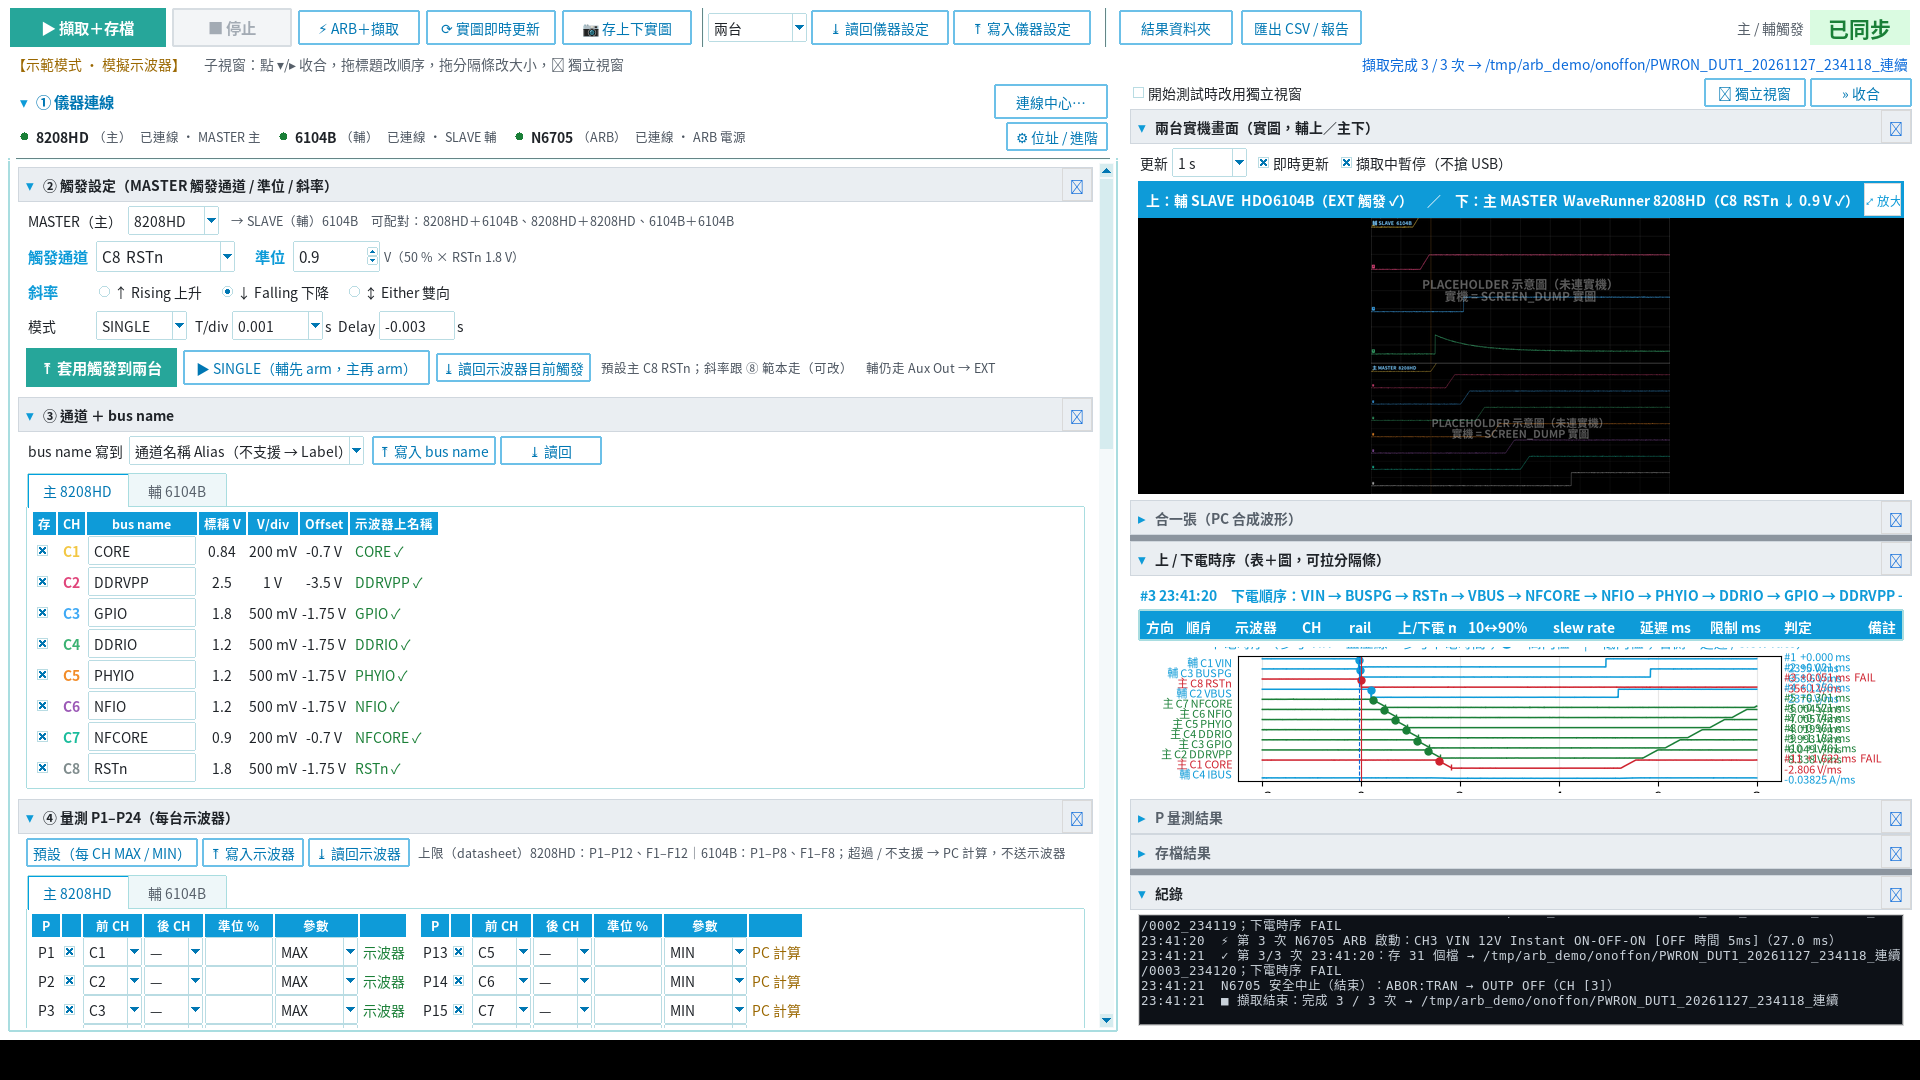
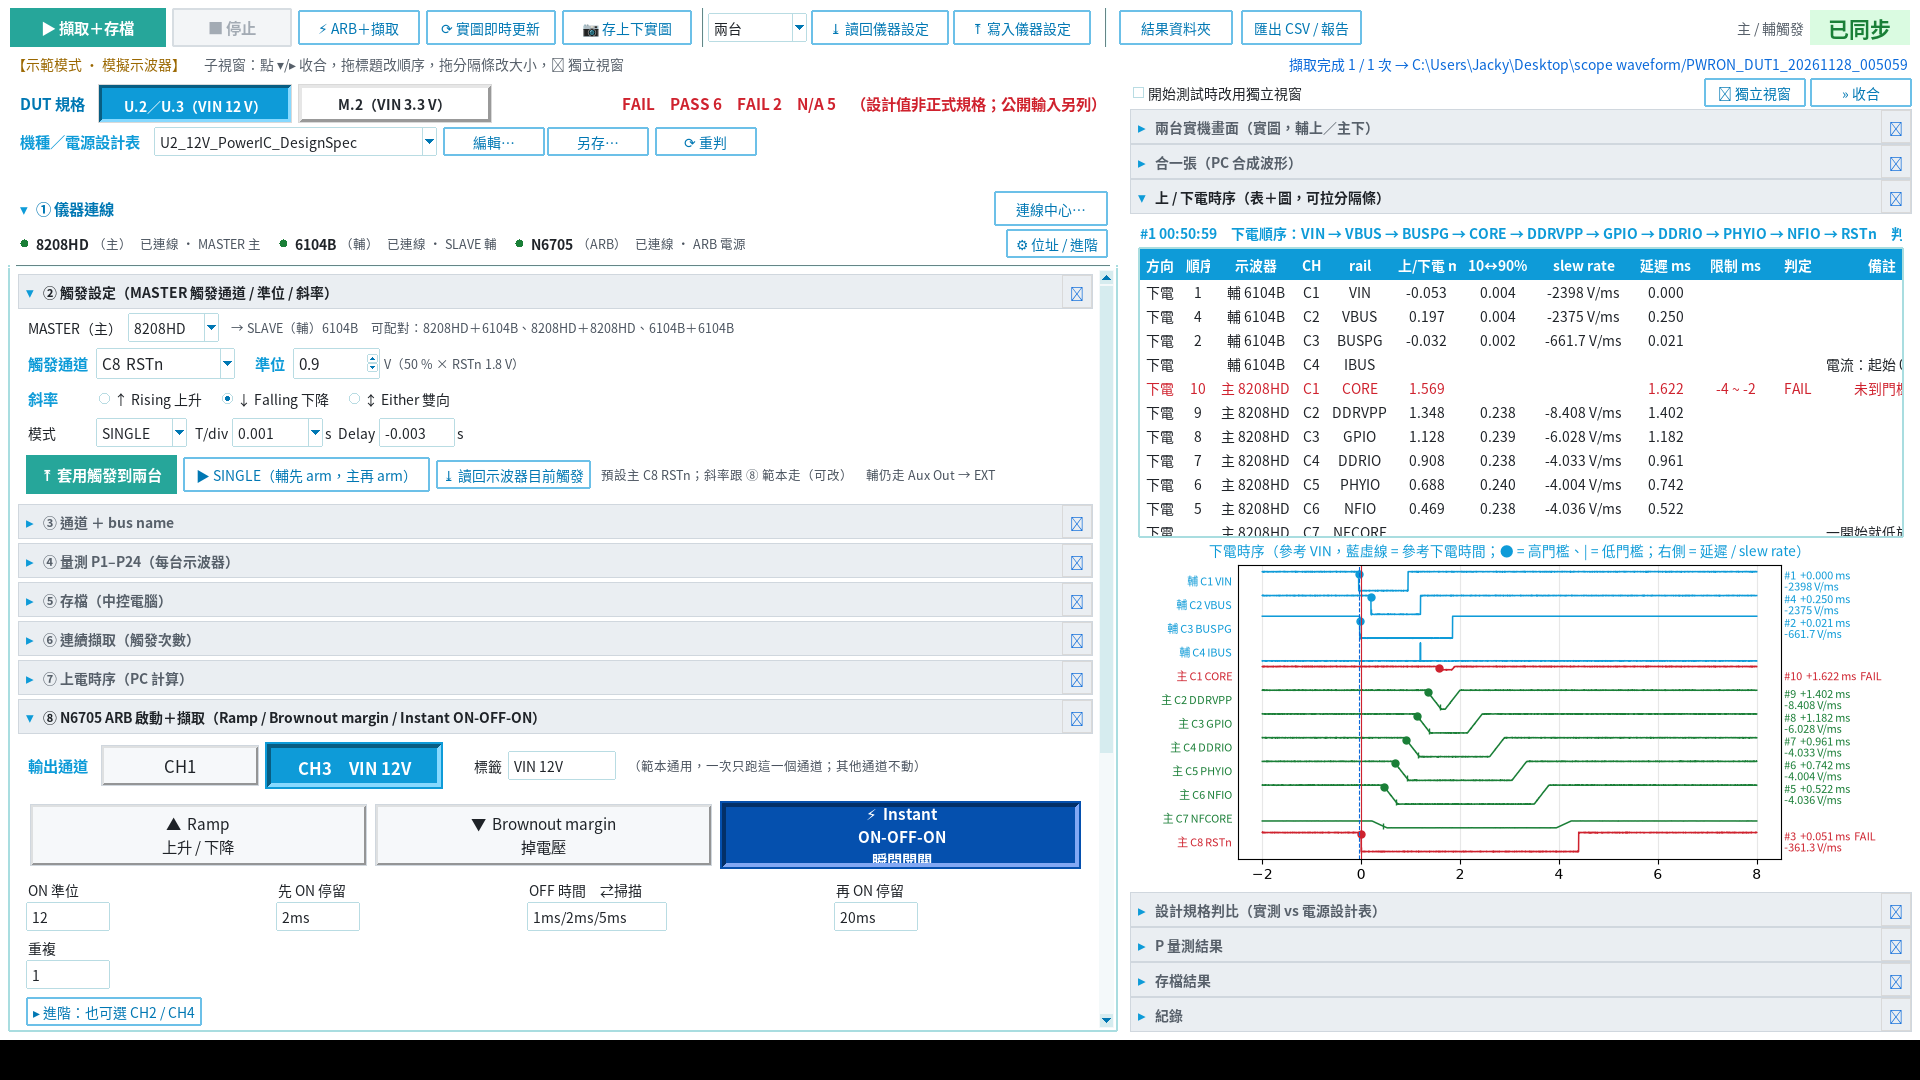
輔機訊號列在前：時序表／圖／CSV、規格表、P 量測與 summary 皆 VIN…IBUS 再主機 CORE…RSTn
「順序」編號與 summary「順序」欄仍依上／下電發生時間（參考 VIN）。
示波器端 P1–P12／P1–P8 編號不變。上下疊圖順序不變（輔上主下）。

diff --git a/tests/test_slave_first.py b/tests/test_slave_first.py
@@ -1,0 +1,82 @@
+# -*- coding: utf-8 -*-
+"""輔機訊號列在前（VIN, VBUS, BUSPG, IBUS → CORE … RSTn）；「順序」仍依發生時間。"""
+from __future__ import annotations
+
+import unittest
+
+import numpy as np
+
+from scope_wave_saver import rails as R
+from scope_wave_saver import sequencing as SQ
+from scope_wave_saver import speccmp as SC
+
+
+WANT = ["VIN", "VBUS", "BUSPG", "IBUS", "CORE", "DDRVPP", "GPIO", "DDRIO", "PHYIO", "NFIO", "NFCORE", "RSTn"]
+
+
+def _wave(t0, t1, v0, v1, n=2000, tmin=-1e-3, tmax=5e-3):
+    t = np.linspace(tmin, tmax, n)
+    y = np.where(t < t0, v0, np.where(t > t1, v1, v0 + (v1 - v0) * (t - t0) / (t1 - t0)))
+    return t, y
+
+
+def _waves_up():
+    """主機 CORE 比輔機 VBUS 更早到（用來證明列序不是時間序）。"""
+    # name: (t_lo, t_hi, nom)
+    times = {
+        ("6104B", 1, "VIN"):     (0.10e-3, 0.20e-3, 12.0),
+        ("6104B", 2, "VBUS"):    (0.80e-3, 0.90e-3, 12.0),
+        ("6104B", 3, "BUSPG"):   (0.30e-3, 0.35e-3, 3.3),
+        ("8208HD", 1, "CORE"):   (0.40e-3, 0.55e-3, 0.84),
+        ("8208HD", 2, "DDRVPP"): (1.00e-3, 1.20e-3, 2.5),
+        ("8208HD", 8, "RSTn"):   (2.00e-3, 2.05e-3, 1.8),
+    }
+    waves = {}
+    for (m, ch, nm), (lo, hi, nom) in times.items():
+        waves[(m, ch)] = _wave(lo, hi, 0.0, nom)
+    # IBUS 電流：峰值在中間，無 t_on
+    t = np.linspace(-1e-3, 5e-3, 2000)
+    y = 0.05 + 0.2 * np.exp(-((t - 0.5e-3) / 0.2e-3) ** 2)
+    waves[("6104B", 4)] = (t, y)
+    return waves
+
+
+class SignalOrderTest(unittest.TestCase):
+    def test_signal_order_constant(self):
+        self.assertEqual(R.all_names(), WANT)
+        self.assertEqual(R.MODELS, (R.SLAVE_DEF, R.MASTER_DEF))
+        self.assertEqual([x["name"] for x in SQ.default_rails()], WANT)
+
+    def test_analyze_lists_slave_first_but_numbers_by_time(self):
+        rows = SQ.analyze(_waves_up(), SQ.default_rails(), ref="VIN", basis="hi")
+        self.assertEqual([x["name"] for x in rows], WANT)
+        # t_hi order: VIN, BUSPG, CORE, VBUS, DDRVPP, RSTn（IBUS 無 t_on）
+        by_name = {x["name"]: x for x in rows}
+        self.assertEqual(by_name["VIN"]["order"], 1)
+        self.assertEqual(by_name["BUSPG"]["order"], 2)
+        self.assertEqual(by_name["CORE"]["order"], 3)
+        self.assertEqual(by_name["VBUS"]["order"], 4)
+        self.assertIsNone(by_name["IBUS"]["order"])
+        self.assertAlmostEqual(by_name["VIN"]["delay"], 0.0)
+        self.assertEqual(SQ.sequence_text(rows), "VIN → BUSPG → CORE → VBUS → DDRVPP → RSTn")
+        table = SQ.table(rows)
+        self.assertEqual([r[4] for r in table], WANT)  # rail column
+
+    def test_spec_compare_ibus_with_slave(self):
+        SC.set_form("U2")
+        SC.set_profile("U2_12V_PowerIC_DesignSpec")
+        meas = {n: R.VNOM[n] for n in WANT if n != "IBUS"}
+        meas["IBUS"] = 0.1
+        # CORE 設計範圍約 0.853–0.884，標稱 0.84 會 FAIL；給一個在範圍內的值
+        meas["CORE"] = 0.86
+        result = SC.compare_measurements(meas)
+        chs = [r["ch"] for r in result["rows"] if r.get("kind") == "design"]
+        # 公開輸入 VIN 列在設計列之後，不算 design；IBUS 應在 BUSPG 之後、CORE 之前
+        self.assertEqual(chs[:4], ["VIN", "VBUS", "BUSPG", "IBUS"])
+        self.assertEqual(chs[4], "CORE")
+        self.assertLess(chs.index("IBUS"), chs.index("CORE"))
+        self.assertEqual(chs[-1], "RSTn")
+
+
+if __name__ == "__main__":
+    unittest.main()

diff --git a/scope_wave_saver/sequencing.py b/scope_wave_saver/sequencing.py
@@ -13,7 +13,8 @@
   · 邏輯訊號（RSTn、BUSPG）：上 / 下電時間用單一高準位門檻 V（預設 0.7 × 標稱）；slew 一樣用 10 / 90 %
   · 電流（IBUS）：上電 → 峰值、峰值時間、slew = 10 → 90 % 峰值（A/ms）；下電 → 起始電流 90 → 10 %（A/ms）。不排序
   · 「上 / 下電時間」= 高門檻穿越（basis="hi"，預設；上電 = power good，下電 = 掉出 power good）或低門檻（basis="lo"）
-  · 順序 = 依上 / 下電時間排序；延遲 = 該時間 − 參考 rail（預設 VIN）的時間
+  · 「順序」編號 = 依上 / 下電時間（最早 = 1）；延遲 = 該時間 − 參考 rail（預設 VIN）的時間
+  · 表格列、時序圖（上到下）、時序 CSV：輔機訊號在前（VIN, VBUS, BUSPG, IBUS），再主機（CORE … RSTn）；同一台依 CH
   · 可選：每條 rail 的延遲下限 / 上限（ms），上電一組（min_ms / max_ms）、下電一組（dn_min_ms / dn_max_ms）→ PASS / FAIL
 """
 from __future__ import annotations
@@ -23,7 +24,7 @@ import math
 
 import numpy as np
 
-from .rails import LOGIC, MASTER_DEF, NAMES, SLAVE_DEF, UNIT_A, VNOM, kind
+from .rails import LOGIC, MASTER_DEF, NAMES, SLAVE_DEF, UNIT_A, VNOM, kind, sort_rails
 
 ROLE = {MASTER_DEF: "主", SLAVE_DEF: "輔"}
 
@@ -104,7 +105,11 @@ def _slew(v_lo, v_hi, t_lo, t_hi):
 
 
 def analyze(waves, rails=None, ref="VIN", basis="hi", slave_skew_s=0.0, direction="auto"):
-    """waves: {(model, ch): (t, y)} → rows（照上 / 下電時間排序；沒穿越的排最後）。每列帶 direction"""
+    """waves: {(model, ch): (t, y)} → rows。
+
+    「順序」編號依上 / 下電時間；回傳列序是輔機訊號在前再主機（同一台依 CH），沒穿越的仍留在原列位。
+    每列帶 direction。
+    """
     rails = rails or default_rails()
     d = detect_direction(waves, rails) if direction in (None, "", "auto") else direction
     up = d == "up"
@@ -175,8 +180,7 @@ def analyze(waves, rails=None, ref="VIN", basis="hi", slave_skew_s=0.0, directio
     for x in rows:
         if x["t_on"] is None and x["kind"] != "current" and (x.get("min_ms") is not None or x.get("max_ms") is not None):
             x["verdict"] = "FAIL"
-    rest = [x for x in rows if x["t_on"] is None]
-    return timed + rest
+    return sort_rails(rows)
 
 
 DIR_TXT = {"up": "上電", "down": "下電"}
@@ -189,6 +193,12 @@ def direction_of(rows):
 def overall(rows):
     v = [x["verdict"] for x in rows if x.get("verdict")]
     return "" if not v else ("FAIL" if "FAIL" in v else "PASS")
+
+
+def sequence_text(rows):
+    """上 / 下電發生順序（依「順序」編號，不是列表列序）。"""
+    timed = sorted((x for x in rows if x.get("order")), key=lambda x: x["order"])
+    return " → ".join(x["name"] for x in timed)
 
 
 def _ms(v, nd=3):

diff --git a/scope_wave_saver/gui.py b/scope_wave_saver/gui.py
@@ -581,7 +581,7 @@ class WaveSaverUI(tk.Tk):
         ttk.Button(top, text="⤓ 讀回", style="U.Small.TButton").pack(side="left")
         nb = ttk.Notebook(f)
         nb.pack(fill="x", pady=(4, 0))
-        for m, role in ((MASTER_DEF, "主"), (SLAVE_DEF, "輔")):
+        for m, role in ((SLAVE_DEF, "輔"), (MASTER_DEF, "主")):
             t = ttk.Frame(nb, padding=4)
             nb.add(t, text=f"  {role} {m}  ")
             heads = ("存", "CH", "bus name", "標稱 V", "V/div", "Offset", "示波器上名稱")
@@ -614,7 +614,7 @@ class WaveSaverUI(tk.Tk):
                   style="U.Muted.TLabel").pack(side="left")
         nb = ttk.Notebook(f)
         nb.pack(fill="x", pady=(4, 0))
-        for m, role in ((MASTER_DEF, "主"), (SLAVE_DEF, "輔")):
+        for m, role in ((SLAVE_DEF, "輔"), (MASTER_DEF, "主")):
             t = ttk.Frame(nb, padding=4)
             nb.add(t, text=f"  {role} {m}  ")
             rows = default_rows([f"C{i + 1}" for i in range(NCH[m])])
@@ -2393,7 +2393,7 @@ class WaveSaverUI(tk.Tk):
                     ax.set_yticks([])
                 ax.axvline(0, color="#cf222e", lw=0.8)
                 ax.grid(alpha=0.3)
-            self.fig.axes[0].set_title("合一張：主 8208HD（實線）＋ 輔 6104B（虛線）· 共同時間軸（觸發 t = 0 對齊）",
+            self.fig.axes[0].set_title("合一張：輔 6104B（虛線）＋ 主 8208HD（實線）· 共同時間軸（觸發 t = 0 對齊）",
                                        fontsize=10, family=fam, color="#0E9BD8")
             self.fig.axes[-1].set_xlabel("時間 (ms)", family=fam)
             self.fig.subplots_adjust(left=0.1, right=0.98, top=0.96, bottom=0.05, hspace=0.08)

diff --git a/scope_wave_saver/capture.py b/scope_wave_saver/capture.py
@@ -386,9 +386,9 @@ class Capture:
                     p = os.path.join(folder, f"{pre}{role}_{m}.npz")
                     np.savez_compressed(p, **d)
                     files.append(p)
-        # ---- P 量測（示波器值 ＋ PC 值）
+        # ---- P 量測（示波器值 ＋ PC 值；列表：輔機在前，每台 P 編號不變）
         pm_rows = []
-        for m, ln in ((ms.model, ms), (ss.model, ss)):
+        for m, ln in ((ss.model, ss), (ms.model, ms)):
             slots = c.get("pm", {}).get(m) or []
             if not slots or (m == ss.model and not s_ok):
                 continue
@@ -457,7 +457,7 @@ class Capture:
                 csv.writer(f).writerow(self._sum_cols)
             self._flush_pending()
         d = {"序號": seq, "觸發時間": t_trig.strftime("%Y-%m-%d %H:%M:%S.%f")[:-3], "輔觸發": "Y" if s_ok else "N",
-             "方向": SQ.DIR_TXT.get(SQ.direction_of(sq_rows), ""), "時序判定": verdict, "順序": " → ".join(x["name"] for x in sq_rows if x.get("order")),
+             "方向": SQ.DIR_TXT.get(SQ.direction_of(sq_rows), ""), "時序判定": verdict, "順序": SQ.sequence_text(sq_rows),
              "檔案數": nfiles, "資料夾": os.path.basename(folder), "備註": self._gap_note}
         for x in sq_rows:
             d[f"{x['role']}{x['name']} 延遲 ms"] = "" if x.get("delay") is None else f"{x['delay'] * 1e3:.4f}"

diff --git a/scope_wave_saver/speccmp.py b/scope_wave_saver/speccmp.py
@@ -669,6 +669,9 @@ def compare_measurements(meas, seq_rows=None, timing_limits=None):
     # IBUS 不在設計表 → 仍列出待填
     if not any(canon(r["ch"]) == "IBUS" for r in rails):
         rails.append({"ch": "IBUS", "nom": None, "min": None, "max": None, "tol_pct": None, "unit": "A"})
+    # 列表列序：輔機訊號在前（VIN, VBUS, BUSPG, IBUS），再主機（CORE … RSTn）
+    from .rails import name_rank
+    rails.sort(key=lambda r: name_rank(r.get("ch") or ""))
     for r in rails:
         ch = r["ch"]
         seen.add(canon(ch))

diff --git a/README.md b/README.md
@@ -3,7 +3,7 @@
 Teledyne LeCroy **WaveRunner 8208HD（主 MASTER，8 CH）＋ HDO6104B（輔 SLAVE，4 CH）** 雙示波器遠端控制工具：
 觸發設定、bus name、P1–P24 量測；連線後背景自動對時、Auto scale、主 Aux Out → 輔 EXT 主從觸發，兩台實圖同時看，波形存到中控電腦。
 
-Keysight **N6705** ARB uses one shared template (Ramp / Brownout margin / Instant ON-OFF-ON) applied to a **single** selected channel (CH1 / CH3 selector, default **CH3 VIN 12V**; CH2/CH4 under Advanced). Default master trigger is **C8 RSTn**. Window sized for 1920×1080. Sub-panels (①–⑨, timing table/plot, spec compare, log, …) collapse, drag-reorder, sash-resize, or detach; layout is saved. The **DUT 規格** selector (U.2 / M.2 + 電源設計表 dropdown + overall verdict) sits in a fixed bar above ① 儀器連線. Card ⑨ is the collapsible measured-vs-spec table (Autotest_tool `dut_power` JSON, `powerprofile.rng` + `designspec.compare`); selecting the form factor sets N6705 CH3 VIN to 12 V or 3.3 V. Optional Linux NVMe rescan is off by default; when enabled, the connection strip also shows **Linux <host IP>** (dot: green / gray / red, SSH auto-reconnect, settings in ⚙) and a one-line drive summary (`nvme0n1 ｜ Model ｜ SN ｜ Capacity ｜ FW ｜ Gen4 x4 ｜ PASS`) appears under ① on the main page, and the full table stays in the collapsible NVMe card. `summary.csv` records **ARB 通道** plus **規格／電源設計表／規格總判定／規格明細**.
+Keysight **N6705** ARB uses one shared template (Ramp / Brownout margin / Instant ON-OFF-ON) applied to a **single** selected channel (CH1 / CH3 selector, default **CH3 VIN 12V**; CH2/CH4 under Advanced). Default master trigger is **C8 RSTn**. Window sized for 1920×1080. Sub-panels (①–⑨, timing table/plot, spec compare, log, …) collapse, drag-reorder, sash-resize, or detach; layout is saved. The **DUT 規格** selector (U.2 / M.2 + 電源設計表 dropdown + overall verdict) sits in a fixed bar above ① 儀器連線. Card ⑨ is the collapsible measured-vs-spec table (Autotest_tool `dut_power` JSON, `powerprofile.rng` + `designspec.compare`); selecting the form factor sets N6705 CH3 VIN to 12 V or 3.3 V. Optional Linux NVMe rescan is off by default; when enabled, the connection strip also shows **Linux <host IP>** (dot: green / gray / red, SSH auto-reconnect, settings in ⚙) and a one-line drive summary (`nvme0n1 ｜ Model ｜ SN ｜ Capacity ｜ FW ｜ Gen4 x4 ｜ PASS`) appears under ① on the main page, and the full table stays in the collapsible NVMe card.  Signal lists (timing table/plot/CSV, spec compare, merged-wave legend, `summary.csv` rail/P columns, P-measurement tabs) put **slave 6104B first** (VIN, VBUS, BUSPG, IBUS) then master 8208HD (CORE … RSTn); the timing **順序** column stays chronological vs VIN. Scope-side P1–P12 / P1–P8 numbering is unchanged. `summary.csv` records **ARB 通道** plus **規格／電源設計表／規格總判定／規格明細**.
 
 預設為示範模式（模擬示波器 ＋ 模擬 N6705 跑完整流程：ARB＋擷取、連續擷取、上 / 下電時序與 slew rate、USB 自動重連）；`--real` 接實機，尚未實機測試。完整說明：[`README_zh-TW.md`](README_zh-TW.md)。
 

diff --git a/README_zh-TW.md b/README_zh-TW.md
@@ -52,9 +52,10 @@
 - **方向**：自動判斷（看各 rail 波形頭尾是升還是降）／上電／下電
 - 每條 rail：**10 % / 90 %**（可改）× 標稱 → 穿越時間；上升 / 下降時間；**slew rate V/ms**（下電為負；IBUS 電流 A/ms：上電 = 10→90 % 峰值，下電 = 起始電流 90→10 %）
 - RSTn、BUSPG = 邏輯訊號：上 / 下電時間用 **邏輯門檻 V**（預設 0.7 × 標稱，可改）
-- 上 / 下電時間 = 高門檻（power good，預設）或低門檻；**順序**、對 **參考 rail（預設 VIN）的延遲**
+- 上 / 下電時間 = 高門檻（power good，預設）或低門檻；**順序**編號依發生時間、對 **參考 rail（預設 VIN）的延遲**
+- 列表列序（⑦ 時序表／圖／時序 CSV、⑨ 規格表、合一張圖例、`summary.csv` 欄位、P 量測列表）：**輔機訊號在前**（VIN, VBUS, BUSPG, IBUS），再主機（CORE, DDRVPP, GPIO, DDRIO, PHYIO, NFIO, NFCORE, RSTn）。「順序」欄仍是上 / 下電發生次序。示波器端 P 編號不變（8208HD P1–P12、6104B P1–P8）
 - 可選：每條 rail **上電延遲下限 / 上限**、**下電延遲下限 / 上限**（ms）→ PASS / FAIL（範例：CORE、RSTn 已填，可清掉）
-- 右側「上 / 下電時序」分頁：表格 ＋ 時序圖（每條 rail 一列、標 10 / 90 % 點、紅線 = 觸發、藍虛線 = 參考）；每次擷取存 CSV ＋ PNG
+- 右側「上 / 下電時序」分頁：表格 ＋ 時序圖（上到下：輔機再主機；標 10 / 90 % 點、紅線 = 觸發、藍虛線 = 參考）；每次擷取存 CSV ＋ PNG
 
 ## USB 自動重連（`link.py`）
 
